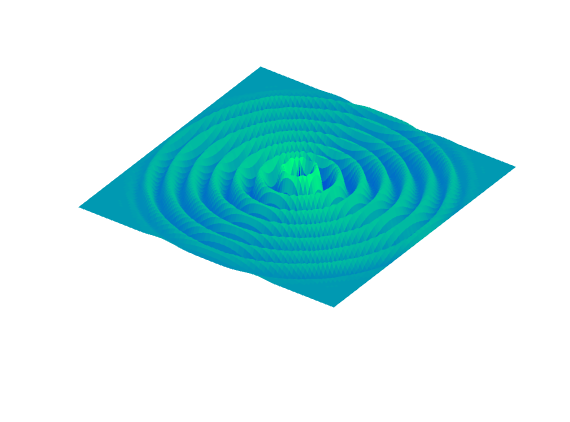
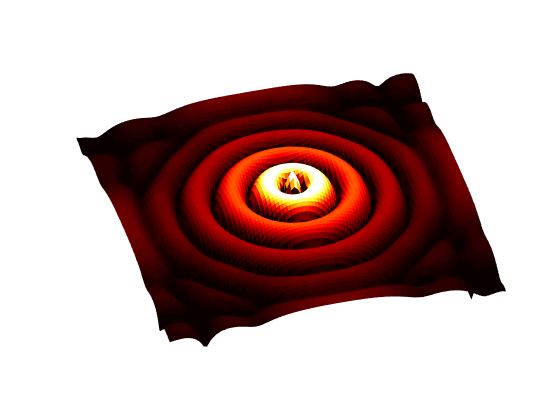
(added) more example images of solutions

diff --git a/helmholtzsolve.cpp b/helmholtzsolve.cpp
@@ -19,7 +19,7 @@ int main(int argc, char * argv[]){
 	double dx = (xmax-xmin)/double(nx-1);
 	double dy = (ymax-ymin)/double(ny-1);
 
-	double k = sqrt(0.5)/dx;
+	double k = sqrt(0.1)/dx;
 	double eps0 = 8.854e-12;
 	double mu0 = 4*3.14159e-7;
 
@@ -187,61 +187,61 @@ int main(int argc, char * argv[]){
 
 			// left boundary
 			if (i==0){
-				// if (j!=0 && j!=ny-1){	// skip corners
-					Op.set(c, c, -k*dx);
-					Op.set(c, c+nx*ny, -1);
-					Op.set(c, rt+nx*ny, 1);
+				// if (j!=0){	// skip corners
+					Op.add(c, c, k*dx);
+					Op.add(c, c+nx*ny, -1);
+					Op.add(c, rt+nx*ny, 1);
 
 					// imaginary part boundary condition
-					Op.set(c+nx*ny, c+nx*ny, k*dx);
-					Op.set(c+nx*ny, c, -1);
-					Op.set(c+nx*ny, rt, 1);
+					Op.add(c+nx*ny, c+nx*ny, -k*dx);
+					Op.add(c+nx*ny, c, -1);
+					Op.add(c+nx*ny, rt, 1);
 
 				// }
 			}
 			// right boundary
 			else if (i==nx-1){
-				// if (j!=0 && j!=ny-1){	// skip corners
-					Op.set(c, c, -k*dx);
-					Op.set(c, c+nx*ny, 1);
-					Op.set(c, lt+nx*ny, -1);
+				// if (j!=ny-1){	// skip corners
+					Op.add(c, c, k*dx);
+					Op.add(c, c+nx*ny, 1);
+					Op.add(c, lt+nx*ny, -1);
 
 					// imaginary part boundary condition
-					Op.set(c+nx*ny, c+nx*ny, k*dx);
-					Op.set(c+nx*ny, c, 1);
-					Op.set(c+nx*ny, lt, -1);
+					Op.add(c+nx*ny, c+nx*ny, -k*dx);
+					Op.add(c+nx*ny, c, 1);
+					Op.add(c+nx*ny, lt, -1);
 
 				// }
 			}
 			// bottom boundary
 			else if (j==0){
-				// if (i==0 || i==nx-1){	// skip corners
+				// if (i!=nx-1){	// skip corners
 					
 
 					// real part boundary condition
-					Op.set(c, c, -k*dx);
-					Op.set(c, c+nx*ny, -1);
-					Op.set(c, up+nx*ny, 1);
+					Op.add(c, c, k*dx);
+					Op.add(c, c+nx*ny, -1);
+					Op.add(c, up+nx*ny, 1);
 
 					// imaginary part boundary condition
-					Op.set(c+nx*ny, c+nx*ny, k*dx);
-					Op.set(c+nx*ny, c, -1);
-					Op.set(c+nx*ny, up, 1);
+					Op.add(c+nx*ny, c+nx*ny, -k*dx);
+					Op.add(c+nx*ny, c, -1);
+					Op.add(c+nx*ny, up, 1);
 
 				// }
 			}
 			// top boundary
 			else if (j==ny-1){
-				// if (i==0 || i==nx-1){	// skip corners
+				// if (i!=0){	// skip corners
 
-					Op.set(c, c, -k*dx);
-					Op.set(c, c+nx*ny, 1);
-					Op.set(c, dn+nx*ny, -1);
+					Op.add(c, c, k*dx);
+					Op.add(c, c+nx*ny, 1);
+					Op.add(c, dn+nx*ny, -1);
 
 					// imaginary part boundary condition
-					Op.set(c+nx*ny, c+nx*ny, k*dx);
-					Op.set(c+nx*ny, c, 1);
-					Op.set(c+nx*ny, dn, -1);
+					Op.add(c+nx*ny, c+nx*ny, -k*dx);
+					Op.add(c+nx*ny, c, 1);
+					Op.add(c+nx*ny, dn, -1);
 					
 				// }
 			}
@@ -282,10 +282,38 @@ int main(int argc, char * argv[]){
 				// 	Op.set(c+nx*ny, c+nx*ny, 1);
 				// 	// cout << "Boundary Point!" << endl;
 				// }
-				if (di*dx < 0.7 && di*dx > 0.5 && dj*dy < 0.6 && dj*dy > 0.4){
+				if (di*dx < 0.6 && di*dx > 0.5 && dj*dy < 0.55 && dj*dy > 0.45){
 					Op.set(c, c, 1);
 					Op.set(c+nx*ny, c+nx*ny, 1);
 				}
+				else if (di*dx < 0.6 && di*dx > 0.5 && dj*dy < 0.75 && dj*dy > 0.65){
+					Op.set(c, c, 1);
+					Op.set(c+nx*ny, c+nx*ny, 1);
+				}
+				else if (di*dx < 0.6 && di*dx > 0.5 && dj*dy < 0.35 && dj*dy > 0.25){
+					Op.set(c, c, 1);
+					Op.set(c+nx*ny, c+nx*ny, 1);
+				}
+				// if (di*dx < 0.7 && di*dx > 0.5 && dj*dy < 0.7 && dj*dy > 0.55){
+				// 	Op.set(c, c, 1);
+				// 	Op.set(c+nx*ny, c+nx*ny, 1);
+				// }
+				// else if (di*dx < 0.7 && di*dx > 0.5 && dj*dy < 0.45 && dj*dy > 0.3){
+				// 	Op.set(c, c, 1);
+				// 	Op.set(c+nx*ny, c+nx*ny, 1);
+				// }
+				// if (di*dx < 0.7 && di*dx > 0.2 && dj*dy < 0.7 && dj*dy > 0.55){
+				// 	Op.set(c, c, 1);
+				// 	Op.set(c+nx*ny, c+nx*ny, 1);
+				// }
+				// else if (di*dx < 0.7 && di*dx > 0.2 && dj*dy < 0.45 && dj*dy > 0.3){
+				// 	Op.set(c, c, 1);
+				// 	Op.set(c+nx*ny, c+nx*ny, 1);
+				// }
+				// else if (di*dx < 0.23 && di*dx > 0.2 && dj*dy < 0.7 && dj*dy > 0.3){
+				// 	Op.set(c, c, 1);
+				// 	Op.set(c+nx*ny, c+nx*ny, 1);
+				// }
 				else{
 					// cout << "domain point!" << endl;
 					Op.set(c, c, 4-k*k*dx*dx);
@@ -307,35 +335,7 @@ int main(int argc, char * argv[]){
 			
 		}
 	}
-	// // handle corner boundary points
-	// Op.set(0, 0, 1);
-	// Op.set(nx*ny, nx*ny, 1);
-	// Op.set(nx*0 + nx-1, nx*0+nx-1, 1);
-	// Op.set(nx*0 + nx-1 + nx*ny, nx*0+nx-1+nx*ny, 1);
-	// Op.set(nx*(ny-1)+0, nx*(ny-1)+0, 1);
-	// Op.set(nx*(ny-1)+0+nx*ny, nx*(ny-1)+0+nx*ny, 1);
-	// Op.set(nx*(ny-1)+nx-1, nx*(ny-1)+nx-1, 1);
-	// Op.set(nx*(ny-1)+nx-1+nx*ny, nx*(ny-1)+nx-1+nx*ny, 1);
 
-	// // bottom left
-	// c = nx*0 + 0;
-	// up = nx*(0+1) + 0;
-	// dn = nx*(0-1) + 0;
-	// lt = nx*0 + 0-1;
-	// rt = nx*0 + 0+1;
-	// Op.set(c, c, -2);
-	// Op.set(c, rt, 1);
-	// Op.set(c, up, 1);
-
-	// // bottom right
-	// c = nx*(ny-1) + 0;
-	// up = nx*(ny-1+1) + 0;
-	// dn = nx*(ny-1-1) + 0;
-	// lt = nx*(ny-1) + 0-1;
-	// rt = nx*(ny-1) + 0+1;
-	// Op.set(c, c, 2);
-	// Op.set(c, lt, -1);
-	// Op.set(c, up, 1);
 
 	cout << "finished setup" << endl;
 
@@ -345,7 +345,7 @@ int main(int argc, char * argv[]){
 		rho(nx*(j) + nx*0.3) = 1*dx*dx;
 	}
 	rho(nx*(ny*0.5) + nx*0.3) = 1*dx*dx;
-	// rho(nx*(ny*0.5) + nx*0.25) = 1*dx*dx;
+	// rho(nx*(ny*0.5) + nx*0.5) = 1*dx*dx;
 	
 	// // quadrupole
 	// rho(nx*(ny*0.48)+nx*0.48) = -1*dx*dx;
@@ -364,7 +364,7 @@ int main(int argc, char * argv[]){
 	Vector x(2*nx*ny);
 	cout << "nnz: " << Op.nnz() << "/" << Op.rows()*Op.cols() << " = " << double(Op.nnz())/double(Op.rows()*Op.cols()) << endl;
 	unsigned int niters;
-	unsigned int nitmax = 5000;
+	unsigned int nitmax = 1000;
 	double tol = 1e-9;
 
 	// cout << "************************** CG - JACOBI PC:" << endl;

diff --git a/README.md b/README.md
@@ -1,6 +1,9 @@
 # HelmholtzSolve
 Solve Helmholtz equation on a 2D domain
 
-![Helmholtz Solution](helmholtz.png)
+<!-- ![Helmholtz Solution](helmholtz.png) -->
 ![Helmholtz ABC](helmholtz_abc.png)
+![Dipole Solution](dipole.png)
 ![Quadrupole Solution](quadrupole.png)
+![One PEC](one_square_pec.png)
+![Three PEC](three_square_pec.png)
